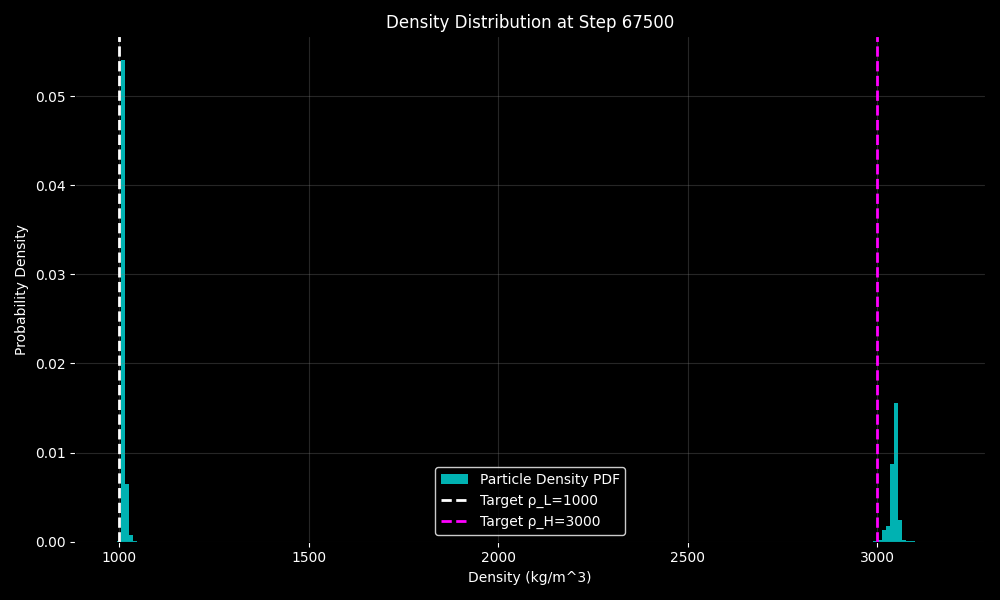
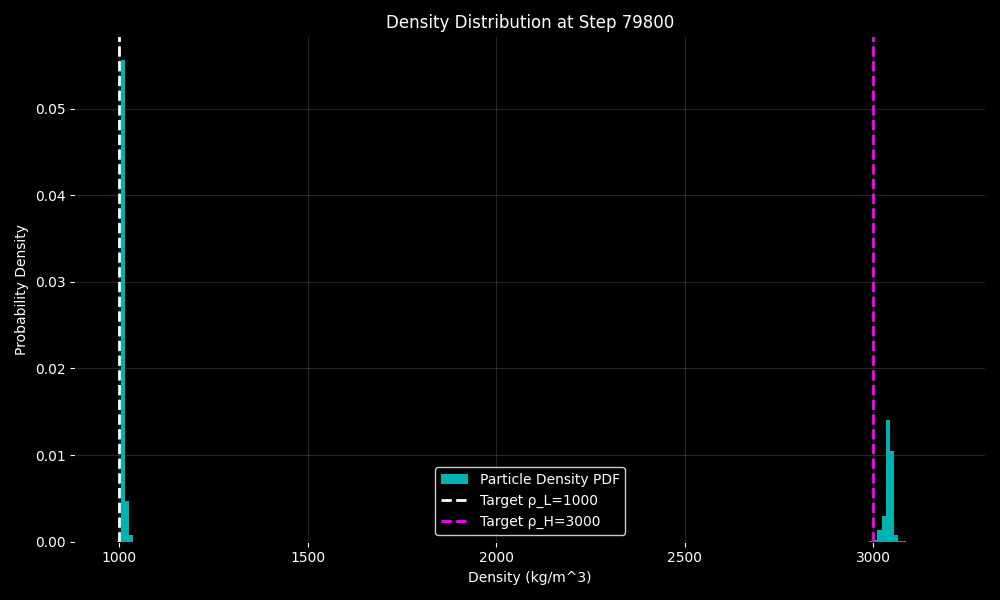
Update all simulation visual results to step 80,000 (animations, plots, documentation)

diff --git a/README.md b/README.md
@@ -1,5 +1,5 @@
 # Neon RTI: SPH Rayleigh-Taylor Instability Simulation
-<!-- Last updated: 2026-02-16 20:05 -->
+<!-- Last updated: 2026-02-16 22:15 -->
 
 A high-performance Smoothed Particle Hydrodynamics (SPH) simulation of Rayleigh-Taylor Instability (RTI) featuring hexagonal particle packing, Numba-accelerated physics, and "Neon-style" visualizations.
 
@@ -75,7 +75,7 @@ Generate comprehensive data plots from checkpoints:
 
 ## 🧪 Physical Analysis Suite
 
-Detailed diagnostics performed on the final simulation data (67,500+ steps):
+Detailed diagnostics performed on the final simulation data (80,000 steps):
 
 ### 1. Turbulence & Vorticity
 The **Vorticity Field** shows the formation of pairs of counter-rotating vortices along the spikes (Kelvin-Helmholtz instability). The **Enstrophy** plot tracks the total square vorticity, providing a proxy for turbulence intensity over time.
